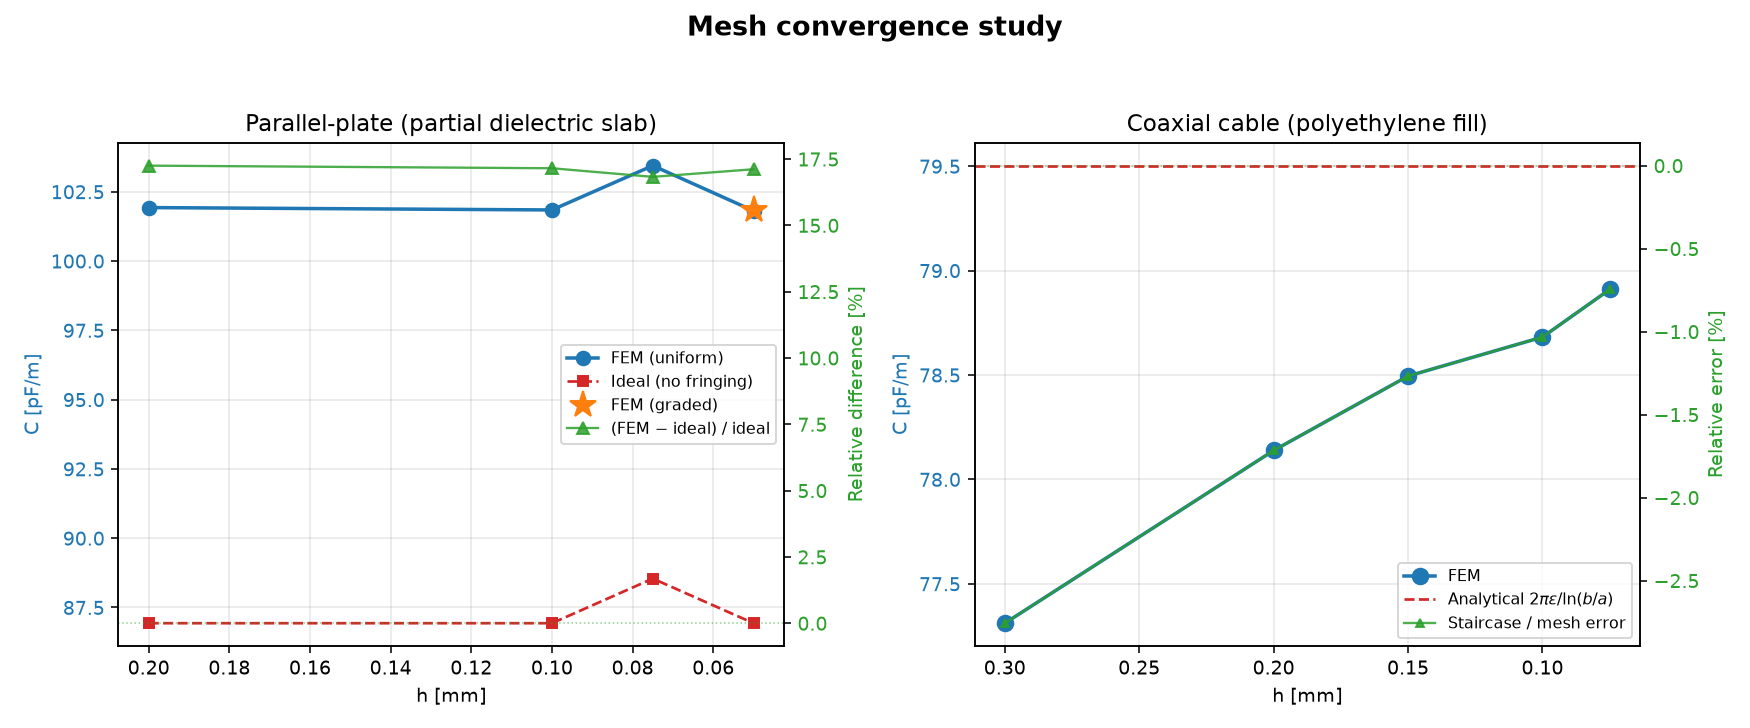
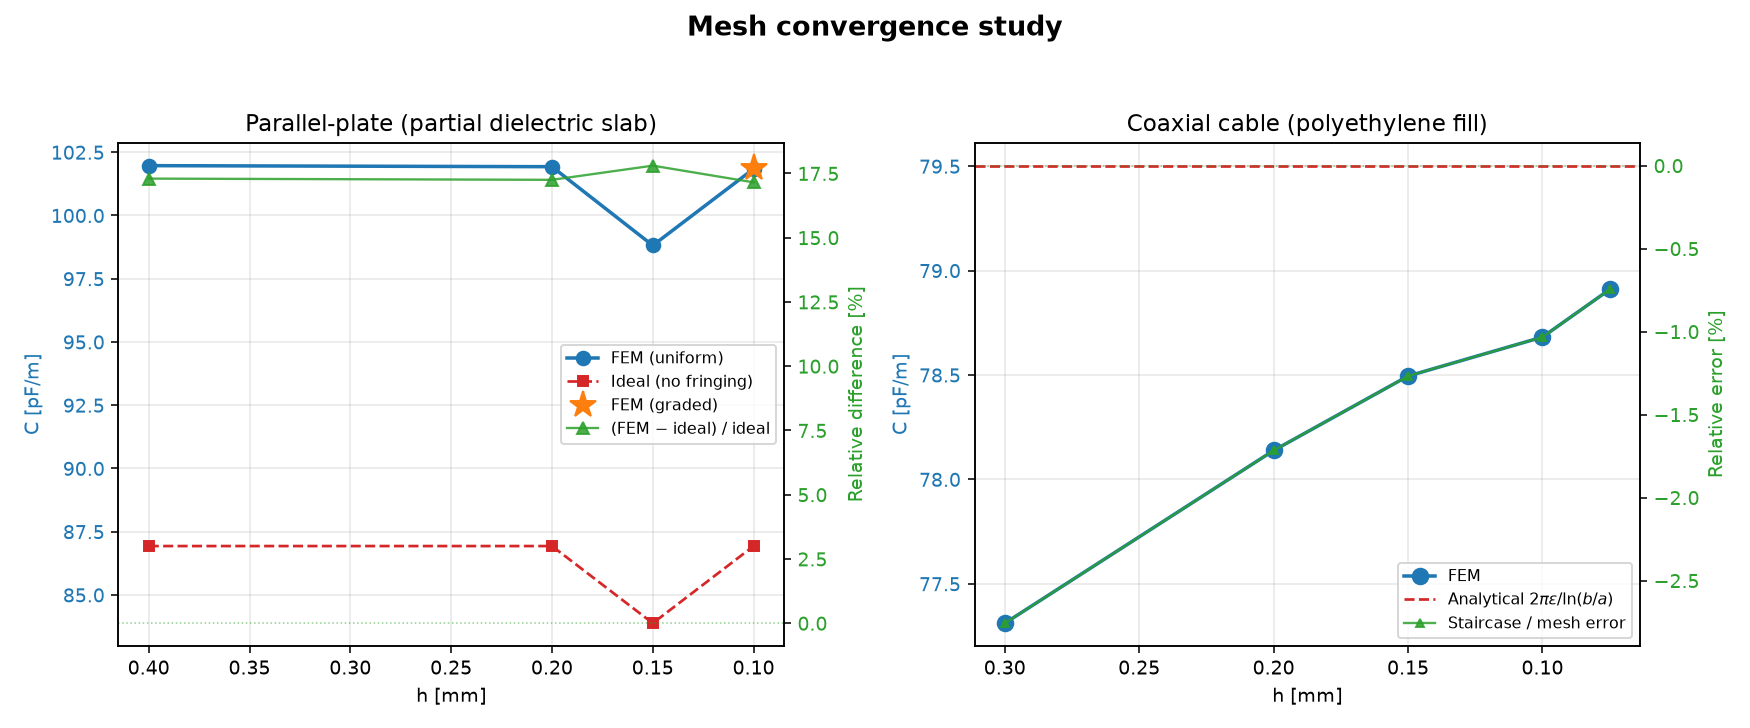
modified:   Development/capacitor_fem_graded_refactored.py modified:   Development/convergence_study.png modified:   Development/example1_parallel_plate.png

diff --git a/Development/capacitor_fem_graded_refactored.py b/Development/capacitor_fem_graded_refactored.py
@@ -175,7 +175,7 @@ class ParallelPlateConfig(_AutoSpacingConfig):
     voltage: float = 100.0
     dielectric_eps_r: float = 4.5
     background_eps_r: float = 1.0
-    mesh_spacing: float = 0.05e-3
+    mesh_spacing: float = 0.1e-3
     convergence_spacings: tuple = (0.4e-3, 0.2e-3, 0.15e-3, 0.1e-3)
     plot_margin: float = 8e-3
 
